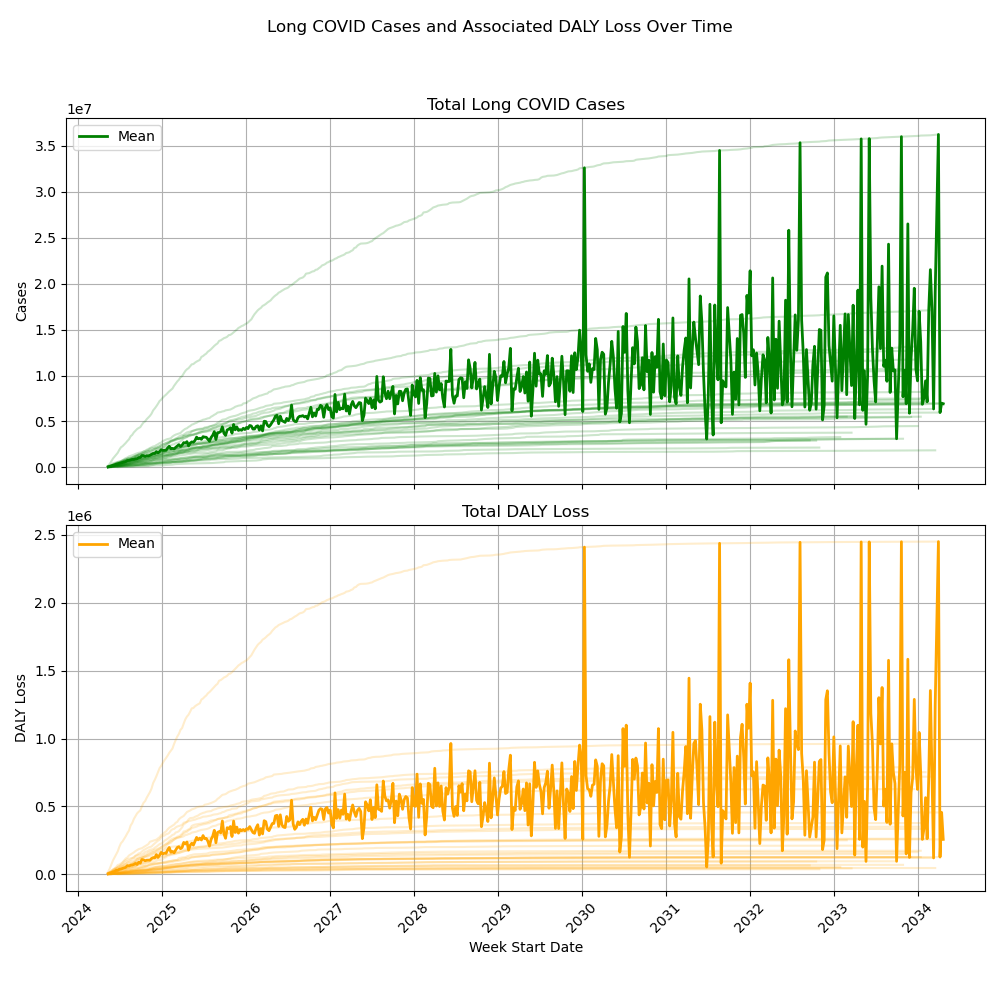
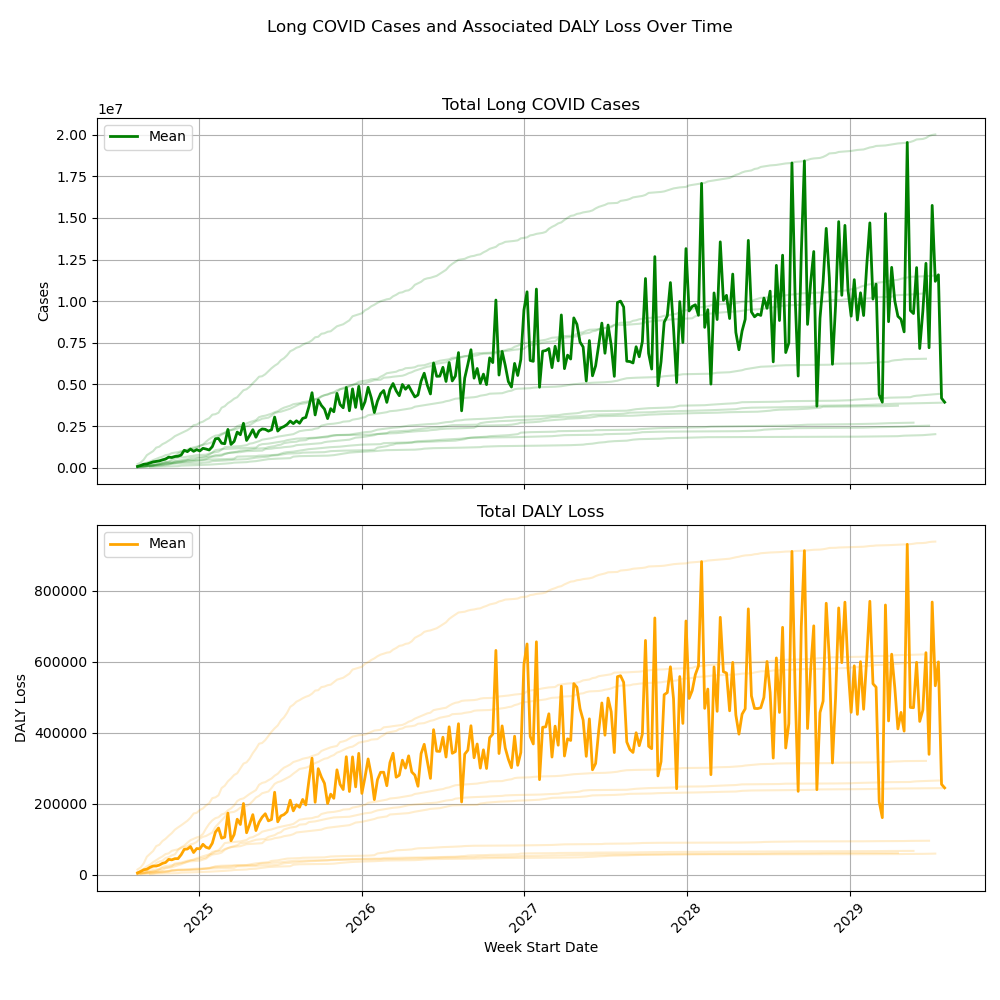
small stylistic

diff --git a/utils/process_symptom_prevalence.py b/utils/process_symptom_prevalence.py
@@ -165,6 +165,7 @@ class SymptomPrevalenceDataAdjuster:
         else:
             return row['prevalence_diff_18m']
         
+
 class SymptomPrevalenceDataProcessor:
     def __init__(self, file_path):
         """
@@ -193,6 +194,7 @@ class SymptomPrevalenceDataProcessor:
 
         return adjusted_data
 
+
 class SymptomPrevalenceDataAdjuster:
     def __init__(self, prevalence_data):
         """
@@ -212,6 +214,7 @@ class SymptomPrevalenceDataAdjuster:
         """
         adjusted_data = self.prevalence_data.copy()
         adjusted_data['steady_state_value'] = adjusted_data.apply(self._determine_steady_state, axis=1)
+        adjusted_data['previous_prevalence_diff_18m'] = adjusted_data['prevalence_diff_18m']
         adjusted_data['prevalence_diff_18m'] = adjusted_data['steady_state_value']
         return adjusted_data
 
@@ -236,6 +239,8 @@ class SymptomPrevalenceDataAdjuster:
             return (row['prevalence_diff_6m'] + row['prevalence_diff_12m'] + row['prevalence_diff_18m']) / 3
         else:
             return row['prevalence_diff_18m']
+
+
 class SymptomPrevalenceDataProcessor:
     def __init__(self, file_path):
         """

diff --git a/main.py b/main.py
@@ -16,9 +16,10 @@ logging.basicConfig(filename='data_processing.log', level=logging.INFO, format='
 
 logging.info('Data processing started.')
 
+
 def main():
-    years = 10
-    n_simulations = 300
+    years = 5
+    n_simulations = 10
     population_size_deflator = 30_000
 
     # Setup logging
@@ -63,6 +64,7 @@ def main():
                 f.write(row_str + '\n')
     except Exception as e:
         logging.error('Error generating comparison table: %s', e)
+
     try:
         # Modify population size for speed
         params.default_params['size'] = int(round(params.default_params['size'] / population_size_deflator))
